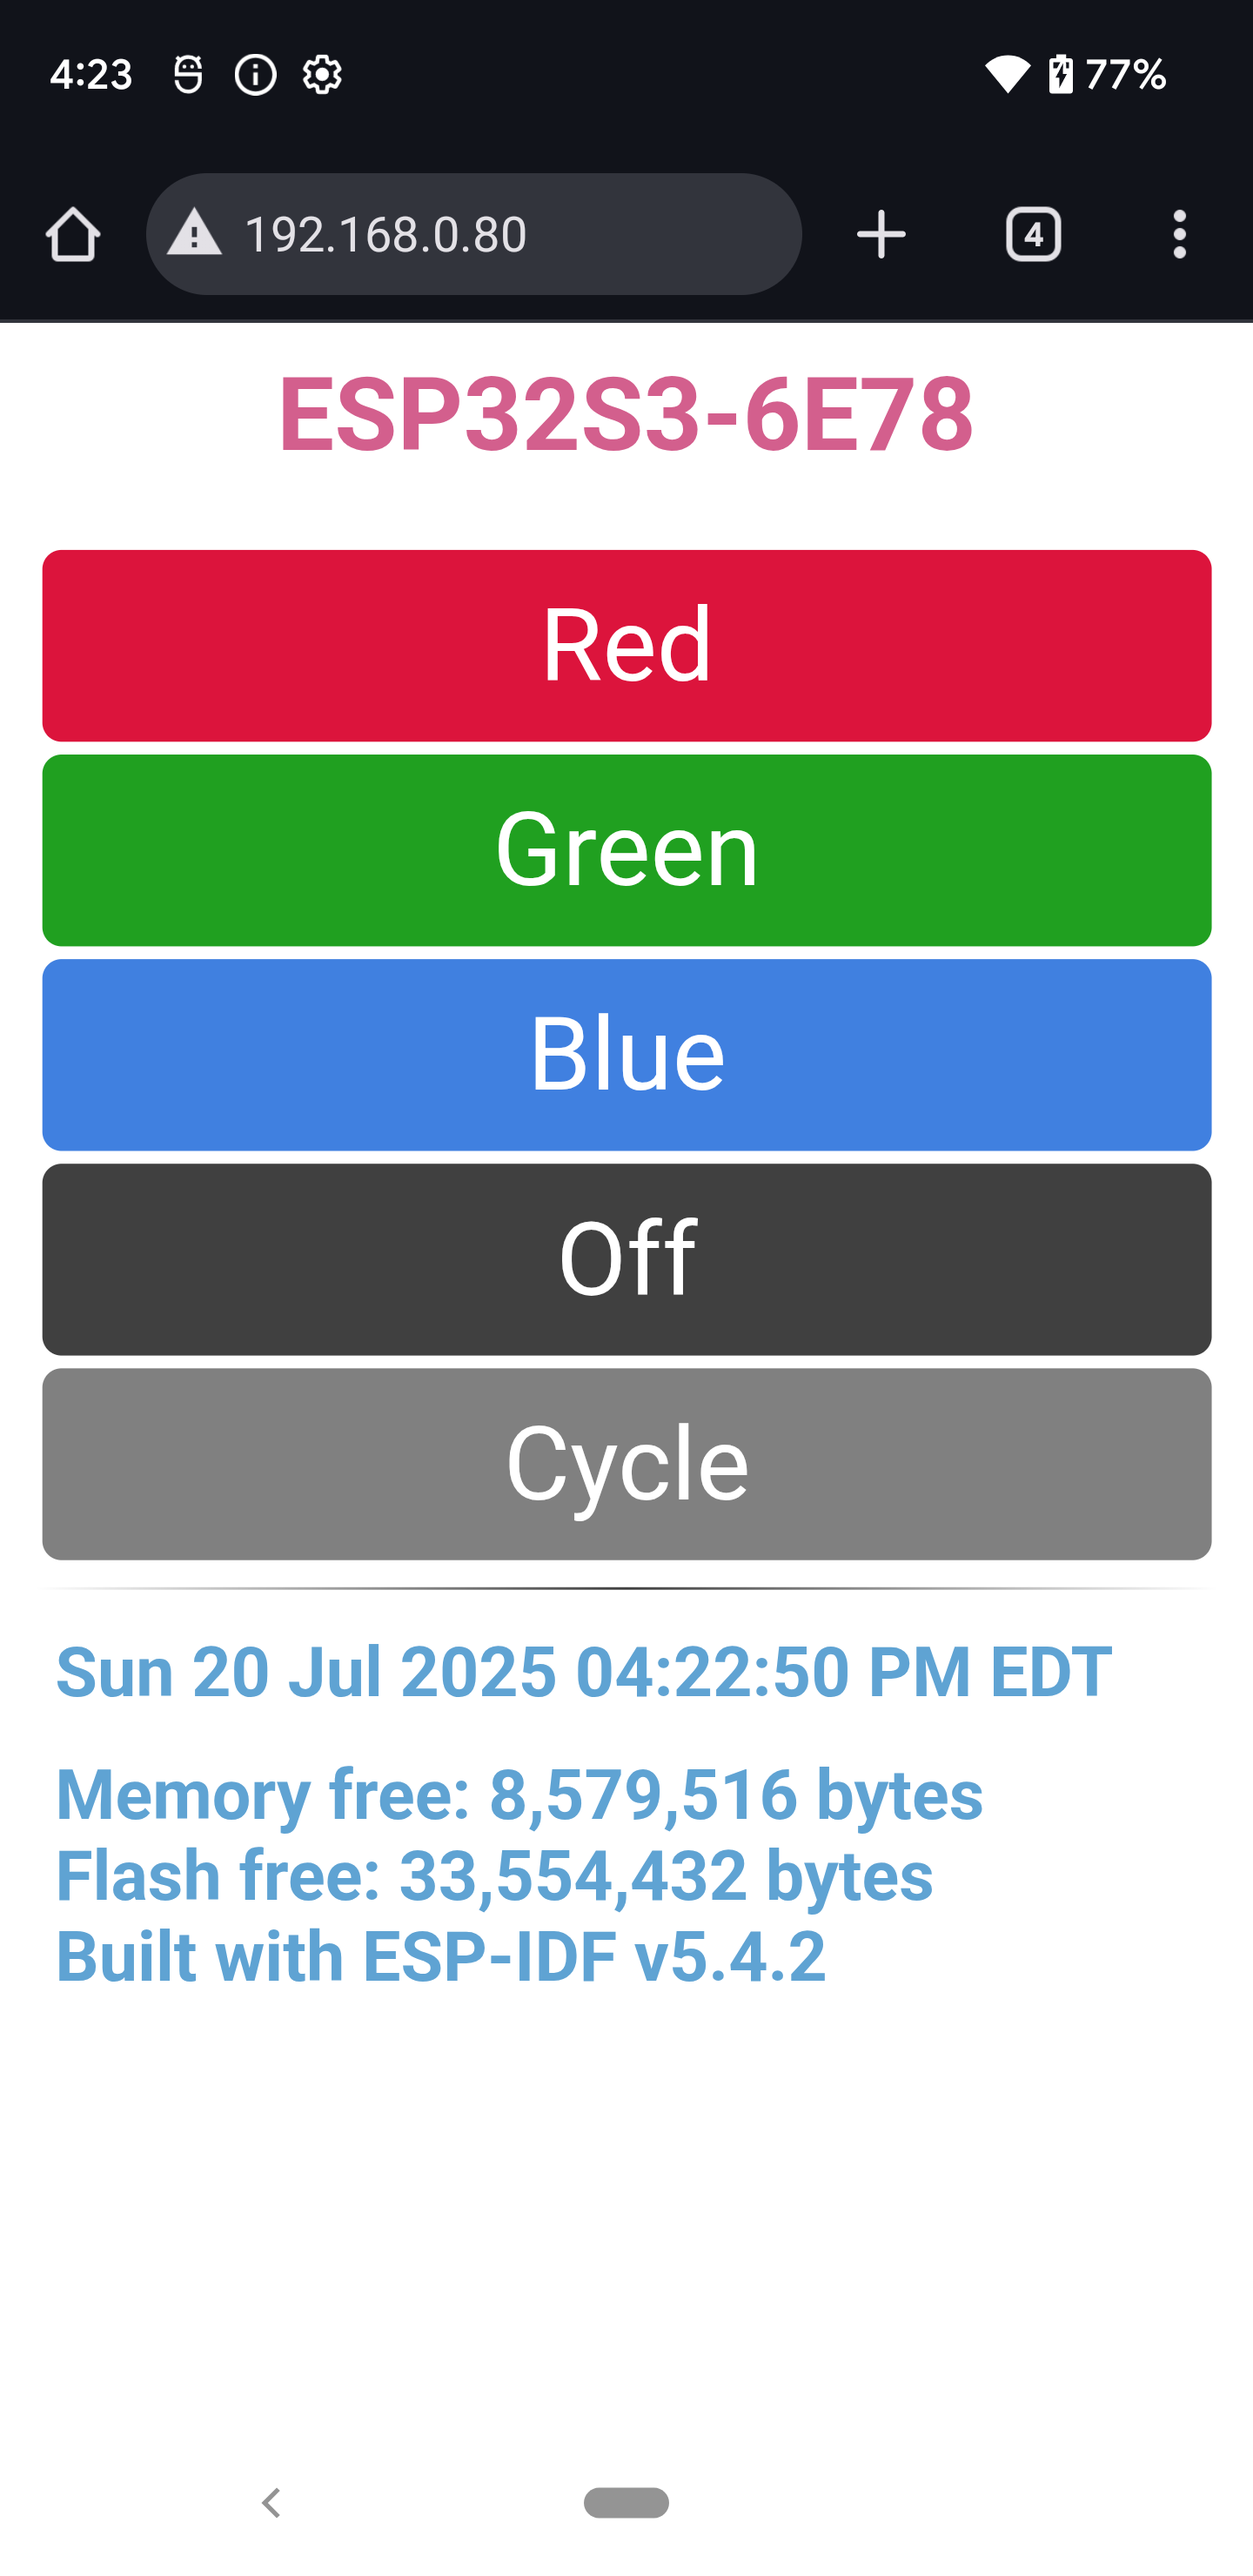
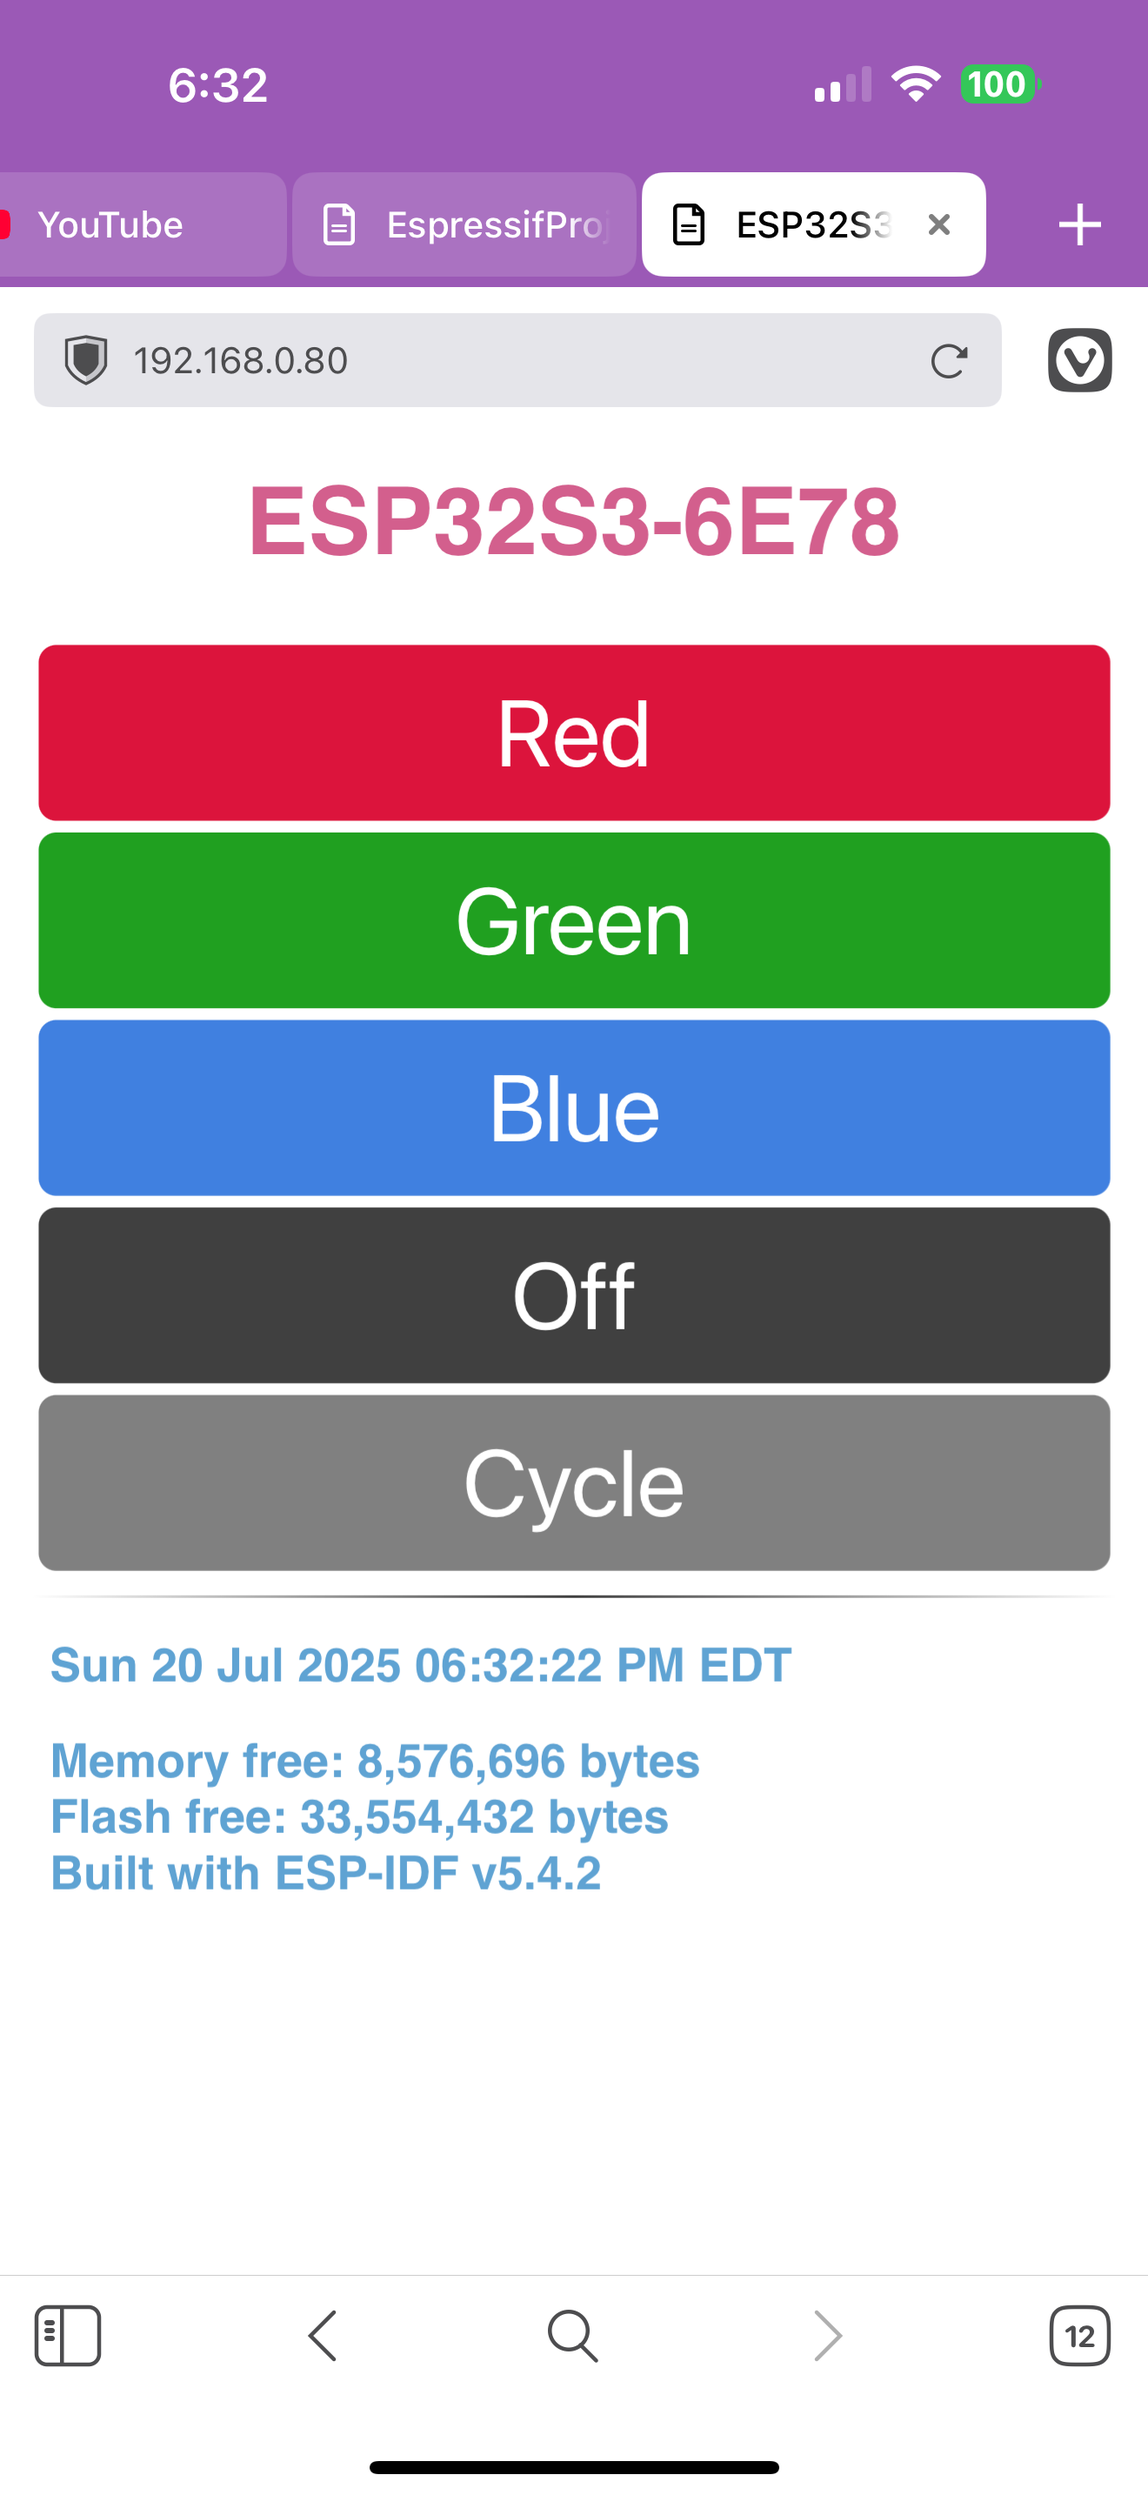
More README cleanup.

diff --git a/v5+/esp32-s3-n32r8/README.md b/v5+/esp32-s3-n32r8/README.md
@@ -230,7 +230,7 @@ In my case it was the line `ESP32-S3-DevKitC-1.1-N32R8: IP_EVENT_STA_GOT_IP: 192
 * Note that the SSID/host name is unique for each Espressif board and is based on the Espressif board on which you are running the code.
 
 ## Mobile Screenshot
-This is what a typical smartphone screen would show if accessing the built-in webserver after the application starts. In this example, this is an iPhone 11 Pro Max and using the default Safari browser.
+This is what a typical smartphone screen would show if accessing the built-in webserver after the application starts. In this example, this is an iPhone 16 Pro Max and using the Vivaldi mobile browser.
 
 The top of each screen will show an autogenerated SSID, built from the device ID and the last four hexadecimal digits of the devices unique ID.
 
